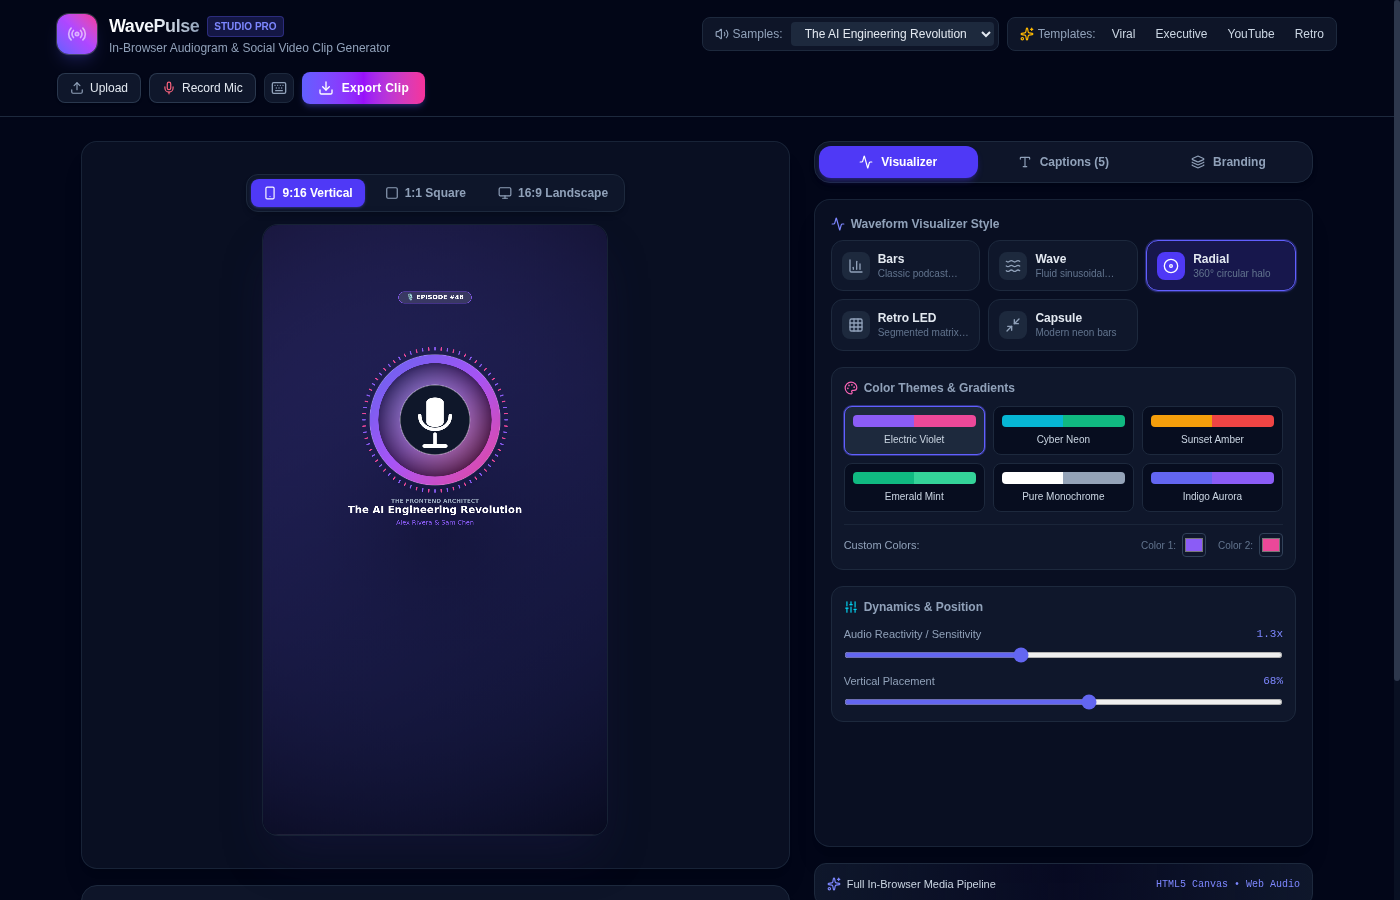
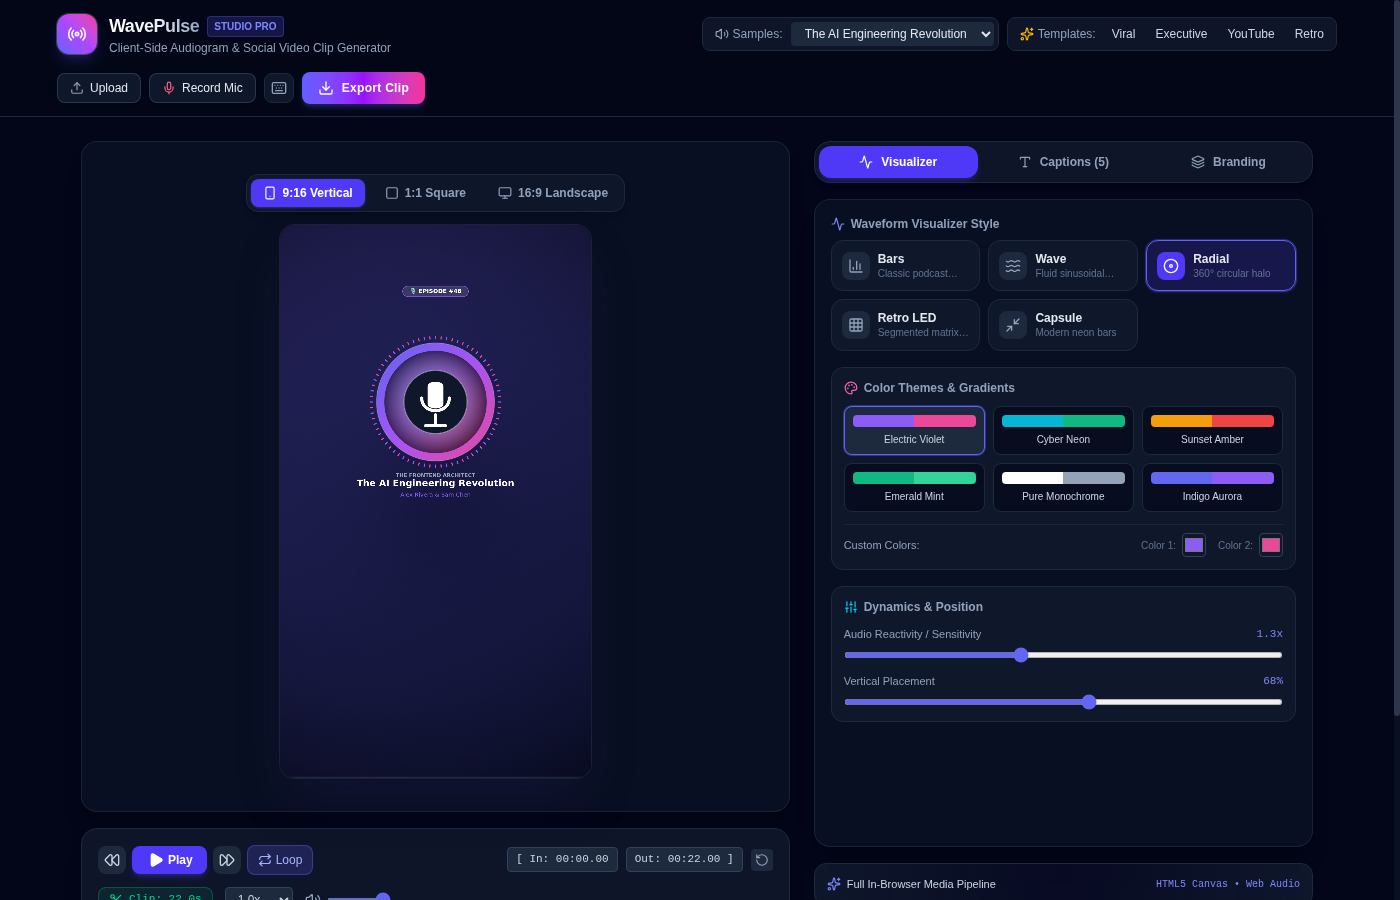
docs: clean up README, remove emojis and revise descriptions for professional tone

diff --git a/src/utils/sampleData.ts b/src/utils/sampleData.ts
@@ -301,7 +301,7 @@ export const AUDIO_PRESETS: AudioPresetInfo[] = [
     title: 'The AI Engineering Revolution',
     podcast: 'Frontend Architect Talks',
     speaker: 'Alex Rivera & Sam Chen',
-    badge: '🎙 EPISODE #48',
+    badge: 'EPISODE #48',
     subtitles: [
       { id: 'c1', startTime: 0.5, endTime: 3.8, text: 'Great software is no longer just about writing code.' },
       { id: 'c2', startTime: 4.1, endTime: 7.9, text: 'It is about human taste, craft, and building memorable user experiences.' },
@@ -316,7 +316,7 @@ export const AUDIO_PRESETS: AudioPresetInfo[] = [
     title: 'Late Night High-Flow State',
     podcast: 'Dev Beats & Algorithms',
     speaker: 'DJ Monad',
-    badge: '⚡ FLOW STATE',
+    badge: 'FLOW STATE',
     subtitles: [
       { id: 'c1', startTime: 0.2, endTime: 4.0, text: 'Zero latency. Pure momentum. Enter the coding flow state.' },
       { id: 'c2', startTime: 4.5, endTime: 9.0, text: 'Every line of code is an idea turned into reality.' },
@@ -330,7 +330,8 @@ export const AUDIO_PRESETS: AudioPresetInfo[] = [
     title: 'Lessons from Zero to One',
     podcast: 'The Builder Journey',
     speaker: 'Elena Vance',
-    badge: '💡 FOUNDER SERIES',
+    badge: 'FOUNDER SERIES',
+
     subtitles: [
       { id: 'c1', startTime: 0.5, endTime: 5.0, text: 'The hardest part of building is not the tech stack.' },
       { id: 'c2', startTime: 5.5, endTime: 10.5, text: 'It is staying obsessed with solving the actual customer problem.' },

diff --git a/index.html b/index.html
@@ -5,8 +5,9 @@
     <link rel="icon" type="image/svg+xml" href="/favicon.svg" />
     <meta name="viewport" content="width=device-width, initial-scale=1.0" />
     <meta name="theme-color" content="#0b0f19" />
-    <meta name="description" content="WavePulse Studio - In-Browser Audiogram & Social Video Clip Generator. Built with React, TypeScript, Tailwind CSS, Web Audio API, and HTML5 Canvas." />
-    <title>WavePulse Studio | In-Browser Audiogram & Social Clip Generator</title>
+    <meta name="description" content="WavePulse Studio - Client-Side Audiogram and Social Video Clip Generator. Built with React, TypeScript, Tailwind CSS, Web Audio API, and HTML5 Canvas." />
+    <title>WavePulse Studio | Client-Side Audiogram & Social Clip Generator</title>
+
     <!-- Inter & JetBrains Mono Fonts -->
     <link rel="preconnect" href="https://fonts.googleapis.com" />
     <link rel="preconnect" href="https://fonts.gstatic.com" crossorigin />

diff --git a/src/components/SubtitleEditor.tsx b/src/components/SubtitleEditor.tsx
@@ -168,7 +168,7 @@ export const SubtitleEditor: React.FC<SubtitleEditorProps> = ({
                 : 'bg-slate-900 border-slate-800 text-slate-400 hover:text-slate-200 hover:bg-slate-800/80'
             }`}
           >
-            {style === 'reels' ? '🔥 Reels Pop' : style === 'clean-pill' ? '💊 Clean Pill' : style === 'boxed' ? '📦 Boxed' : '✨ Minimal'}
+            {style === 'reels' ? 'Reels Pop' : style === 'clean-pill' ? 'Clean Pill' : style === 'boxed' ? 'Boxed' : 'Minimal'}
           </button>
         ))}
       </div>

diff --git a/src/components/Header.tsx b/src/components/Header.tsx
@@ -63,8 +63,9 @@ export const Header: React.FC<HeaderProps> = ({
               </span>
             </div>
             <p className="text-xs text-slate-400 font-medium hidden sm:block">
-              In-Browser Audiogram & Social Video Clip Generator
+              Client-Side Audiogram & Social Video Clip Generator
             </p>
+
           </div>
         </div>
 

diff --git a/README.md b/README.md
@@ -1,120 +1,117 @@
-# 🎙 WavePulse Studio — In-Browser Audiogram & Social Video Clip Generator
+# WavePulse Studio
 
-> **A high-performance, 100% client-side web application for transforming audio and podcasts into viral social media video snippets with live soundwave visualizers and animated karaoke subtitles.**
+A client-side web application for generating video audiograms and social clips from audio files with real-time waveform visualizers and synchronized subtitles.
 
 ![WavePulse Studio Interface Preview](./preview.png)
 
 ---
 
+## Overview
 
-## 🌟 Key Highlights & Engineering Features
+WavePulse Studio is built entirely around browser-native APIs. All audio analysis, waveform rendering, subtitle synchronization, and video encoding execute client-side without relying on remote servers or FFmpeg backend workers.
 
-* **⚡ 100% In-Browser Media Pipeline**: No cloud backend, FFmpeg server, or external processing required. All audio synthesis, waveform analysis, and video encoding happen client-side using native Web APIs.
-* **🎵 Native Web Audio API Engine**:
-  * Real-time frequency and time-domain signal extraction using `AudioContext` and `AnalyserNode` (512 FFT bins with 0.82 smoothing constant).
-  * Procedural audio synthesizer generating multi-instrumental lo-fi beats, synthwave chords, and ambient soundscapes via `OfflineAudioContext`.
-  * Lossless 16-bit PCM WAV slicing directly from `AudioBuffer` in pure TypeScript.
-* **🎨 60 FPS Canvas 2D Visualizer Engine**:
-  * **5 Dynamic Visualizer Modes**:
-    1. *Frequency Bars / Equalizer* (Rounded caps, responsive gradients)
-    2. *Fluid Harmonic Wave* (Bézier curves with harmonic ribbons)
-    3. *Circular Radial Halo* (360° frequency rays around cover art)
-    4. *Retro LED Matrix* (Segmented display with decay hold)
-    5. *Neon Capsule Pulse* (Modern pill audio bars)
-* **🔥 Dynamic Subtitle & Karaoke Engine**:
-  * Word-level animated highlight & bounce effects (TikTok / Reels style).
-  * 4 Subtitle visual styles: *Reels Pop*, *Clean Frosted Pill*, *Boxed*, and *Minimal Ghost*.
-  * Interactive subtitle timeline editor with cue addition, splitting, and playhead sync.
-  * SRT & WebVTT import/export engine.
-* **📐 Multi-Aspect Ratio Social Studio**:
-  * **9:16 Vertical** (TikTok, Instagram Reels, YouTube Shorts)
-  * **1:1 Square** (Instagram Feed, LinkedIn, Twitter/X)
-  * **16:9 Landscape** (YouTube, Twitter video, Desktop web)
-  * Multi-stop mesh gradients, blurred album artwork backdrops, custom cover artwork scaling, and customizable header badges.
-* **🎥 Hardware-Accelerated Video & Audio Export**:
-  * Captures live canvas rendering at 60 FPS using `HTMLCanvasElement.captureStream(60)`.
-  * Merges canvas video with `MediaStreamAudioDestinationNode` from the Web Audio graph.
-  * Encodes to high-bitrate WebM / MP4 video via `MediaRecorder` API with live render progress and confetti celebration.
-* **🎙 Voice Note Recording**: Direct browser microphone capture via `navigator.mediaDevices.getUserMedia`.
-* **⌨ Full Keyboard Navigation**: Space to play/pause, `[` and `]` to set In/Out trim markers, arrow keys for frame stepping, `L` to loop, `M` to mute.
+## Key Features
+
+* **Client-Side Media Pipeline**: Complete audio decoding, playback synchronization, and video compilation execute directly within the browser runtime.
+* **Web Audio API Integration**:
+  * Real-time frequency and time-domain analysis via `AudioContext` and `AnalyserNode` (512 FFT bins, 0.82 smoothing constant).
+  * Built-in multi-track audio synthesis via `OfflineAudioContext` for instant local playback without external asset requests.
+  * 16-bit PCM WAV audio slicing directly from decoded `AudioBuffer` data.
+* **Canvas 2D Visualizer Engine (60 FPS)**:
+  * Five configurable visualization modes: Frequency Bars, Continuous Wave, Radial Halo, Segmented LED Matrix, and Capsule Pulse.
+  * Real-time parameter controls for frequency sensitivity, bar density, and vertical placement.
+* **Synchronized Subtitles and Captions**:
+  * Word-level timing detection and active word highlight animations.
+  * Multiple visual styles including high-contrast outline, boxed card, and frosted capsule.
+  * Interactive subtitle timeline editor supporting cue splitting, duration adjustments, and playhead snapping.
+  * Parser and serializer for SRT and WebVTT subtitle files.
+* **Multi-Aspect Ratio Layouts**:
+  * Presets for 9:16 (vertical mobile video), 1:1 (square social posts), and 16:9 (horizontal widescreen).
+  * Background customization supporting multi-stop CSS gradients, solid colors, and blurred album artwork backdrops.
+* **Video and Audio Export**:
+  * Hardware-accelerated canvas capture at 60 FPS using `HTMLCanvasElement.captureStream()`.
+  * Audio multiplexing via `MediaStreamAudioDestinationNode`.
+  * Video encoding using the `MediaRecorder` API with customizable bitrate settings.
+  * Instant exports for 16-bit PCM WAV audio segments and high-resolution PNG cover frames.
+* **Microphone Input**: Direct voice recording using the `MediaDevices` API (`getUserMedia`).
+* **Keyboard Navigation**: Dedicated shortcuts for playback control, trim points, frame stepping, and aspect ratio toggles.
 
 ---
 
-## 🏗 System Architecture
+## Architecture
 
 ```
-[ User Audio File / Mic / Synthesizer ]
-                 │
-                 ▼
-       ┌──────────────────┐
-       │   AudioContext   │
-       └─────────┬────────┘
-                 │
-       ┌─────────┴─────────┐
-       ▼                   ▼
-┌──────────────┐   ┌───────────────┐
-│ AnalyserNode │   │ MediaStream   │
-│  (FFT Data)  │   │ Destination   │
-└──────┬───────┘   └───────┬───────┘
-       │                   │
-       ▼ (60 FPS)          │
-┌──────────────┐           │
-│ HTML5 Canvas │           │
-│  (Renderer)  │           │
-└──────┬───────┘           │
-       │ captureStream()   │
-       ▼                   ▼
-┌───────────────────────────────┐
-│         MediaRecorder         │
-│     (WebM / MP4 Video)        │
-└──────────────┬────────────────┘
-               ▼
-   [ Final Downloadable Clip ]
+[ Audio Source: Upload / Microphone / Synthesizer ]
+                         │
+                         ▼
+               ┌───────────────────┐
+               │   AudioContext    │
+               └─────────┬─────────┘
+                         │
+        ┌────────────────┴────────────────┐
+        ▼                                 ▼
+┌───────────────┐               ┌───────────────────┐
+│ AnalyserNode  │               │    MediaStream    │
+│  (FFT Data)   │               │  AudioDestination │
+└───────┬───────┘               └─────────┬─────────┘
+        │                                 │
+        ▼ (60 FPS)                        │
+┌───────────────┐                         │
+│ Canvas 2D     │                         │
+│ (Render Loop) │                         │
+└───────┬───────┘                         │
+        │ captureStream(60)               │
+        ▼                                 ▼
+┌───────────────────────────────────────────────┐
+│                 MediaRecorder                 │
+│             (WebM / MP4 Encoding)             │
+└───────────────────────┬───────────────────────┘
+                        ▼
+            [ Downloadable Video Clip ]
 ```
 
 ---
 
-## 🛠 Tech Stack
+## Technology Stack
 
-* **Framework**: React 19 + TypeScript
-* **Build Tool**: Vite 8 & Bun
-* **Styling**: Tailwind CSS v4 (Glassmorphic dark studio theme)
-* **Icons & Animation**: Lucide React, Canvas Confetti
-* **APIs Used**:
-  * `Web Audio API` (`AudioContext`, `AnalyserNode`, `OfflineAudioContext`, `MediaStreamAudioDestinationNode`)
-  * `HTML5 Canvas 2D API`
-  * `MediaStream Recording API` (`MediaRecorder`)
-  * `MediaDevices API` (`getUserMedia`)
+* **UI Framework**: React 19, TypeScript
+* **Styling**: Tailwind CSS v4
+* **Build System**: Vite 8, Bun
+* **Icons**: Lucide React
+* **Browser APIs**:
+  * Web Audio API (`AudioContext`, `AnalyserNode`, `OfflineAudioContext`, `MediaStreamAudioDestinationNode`)
+  * HTML5 Canvas 2D API
+  * MediaStream Recording API (`MediaRecorder`)
+  * MediaDevices API (`getUserMedia`)
 
 ---
 
-## 🚀 Getting Started
+## Getting Started
 
 ### Prerequisites
-Make sure you have [Bun](https://bun.sh) or [Node.js](https://nodejs.org) installed.
 
-### Installation & Run
+* [Bun](https://bun.sh) (recommended) or [Node.js](https://nodejs.org) (v18+)
+
+### Installation
 
 ```bash
 # Clone the repository
-git clone <repo-url>
+git clone git@github.com:hamzaihsan9/audiogram-studio.git
 cd audiogram-studio
 
 # Install dependencies
 bun install
 
-# Start local development server
+# Start development server
 bun dev
 ```
 
-Visit `http://localhost:5173` to explore the studio!
+The application will be accessible at `http://localhost:5173`.
 
----
-
-## 🧪 Production Build
+### Production Build
 
 ```bash
-# Type check and build optimized bundle
+# Type check and generate production bundle
 bun run build
 
 # Preview production build locally
@@ -123,21 +120,22 @@ bun run preview
 
 ---
 
-## 💡 Keyboard Shortcuts
+## Keyboard Shortcuts
 
-| Shortcut | Action |
+| Key | Description |
 | :--- | :--- |
-| `Space` | Play / Pause audio |
-| `[` | Set Trim In Point at playhead |
-| `]` | Set Trim Out Point at playhead |
-| `←` / `→` | Step playhead backward / forward 2s |
-| `L` | Toggle Loop region |
-| `M` | Mute / Unmute |
+| `Space` | Play / Pause audio playback |
+| `[` | Set trim start marker to current playhead position |
+| `]` | Set trim end marker to current playhead position |
+| `Left Arrow` | Step playhead backward 2 seconds |
+| `Right Arrow` | Step playhead forward 2 seconds |
+| `L` | Toggle loop playback within trimmed region |
+| `M` | Mute / Unmute audio |
 | `1`, `2`, `3` | Switch aspect ratio (9:16, 1:1, 16:9) |
-| `?` | Toggle shortcuts modal |
+| `?` | Show keyboard shortcuts modal |
 
 ---
 
-## 👤 Author
+## License
 
-Built by **Hamza Ihsan** as a showcase of browser media capabilities and modern frontend engineering.
+MIT License.
